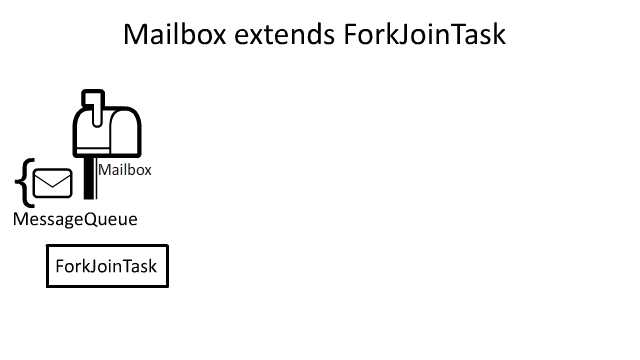
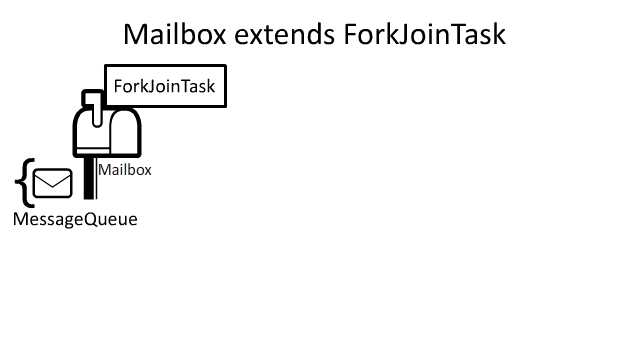
Update dispatcher behavior

Changed region(s): [[0.1562, 0.1528, 0.375, 0.3056], [0.0625, 0.6722, 0.2812, 0.825]]

diff --git a/src/pages/dispatcher-behavior/index.md b/src/pages/dispatcher-behavior/index.md
@@ -5,7 +5,7 @@ date: "2018-02-13T01:31:08.000+0900"
 
 ## Overview
 
-<iframe width="640" height="360" src="https://www.youtube.com/embed/hnIDDXDD1Io" frameborder="0" allow="autoplay; encrypted-media" allowfullscreen></iframe>
+<iframe width="640" height="360" src="https://www.youtube.com/embed/NYWw0DbmUHM" frameborder="0" allow="autoplay; encrypted-media" allowfullscreen></iframe>
 
 The concept of Akka [`Dispatcher`](https://doc.akka.io/docs/akka/2.5/dispatchers.html?language=scala) might be unfamiliar to you and it is probably difficult to understand. So I am going to explain how Dispatcher works in detail here.
 
@@ -44,7 +44,7 @@ def lookup(id: String): MessageDispatcher = lookupConfigurator(id).dispatcher()
 
 ![dispatcher-executor-service](./dispatcher-executor-service.jpg)
 
-`Dispatcher` has `ExecutorService`. `ExecutorService` is like a pool of threads where you can execute code (`Runnable`) concurrently. See [Executor/ExecutorService in Java, and ExecutionContext behind Future in Scala](../executor-and-execution-context) for illustration and more details.
+`Dispatcher` has `ExecutorService`, and `ExecutorService` is like a pool of threads where you can execute code (`Runnable`) concurrently. See [Executor/ExecutorService in Java, and ExecutionContext behind Future in Scala](../executor-and-execution-context) for illustration and more details.
 
 Here is [`executorService` method](https://github.com/akka/akka/blob/v2.5.9/akka-actor/src/main/scala/akka/dispatch/Dispatcher.scala#L47) of `Dispatcher`.
 
@@ -129,7 +129,7 @@ def registerForExecution(mbox: Mailbox, ...): Boolean = {
 }
 ```
 
-In the above code, `Dispatcher`'s `excutorService` is executing `mbox: Mailbox`, because [`Mailbox`](https://github.com/akka/akka/blob/v2.5.9/akka-actor/src/main/scala/akka/dispatch/Mailbox.scala#L56L57) is defined as `ForkJoinTask`, which can be `execute`-d by `ExecutorService`.
+In the above code, `Dispatcher`'s `excutorService` is executing `mbox: Mailbox`, because [`Mailbox`](https://github.com/akka/akka/blob/v2.5.9/akka-actor/src/main/scala/akka/dispatch/Mailbox.scala#L56L57) extends `ForkJoinTask`, which can be `execute`-d by `ExecutorService`.
 
 ![fork-join-1](./fork-join-1.jpg)
 
